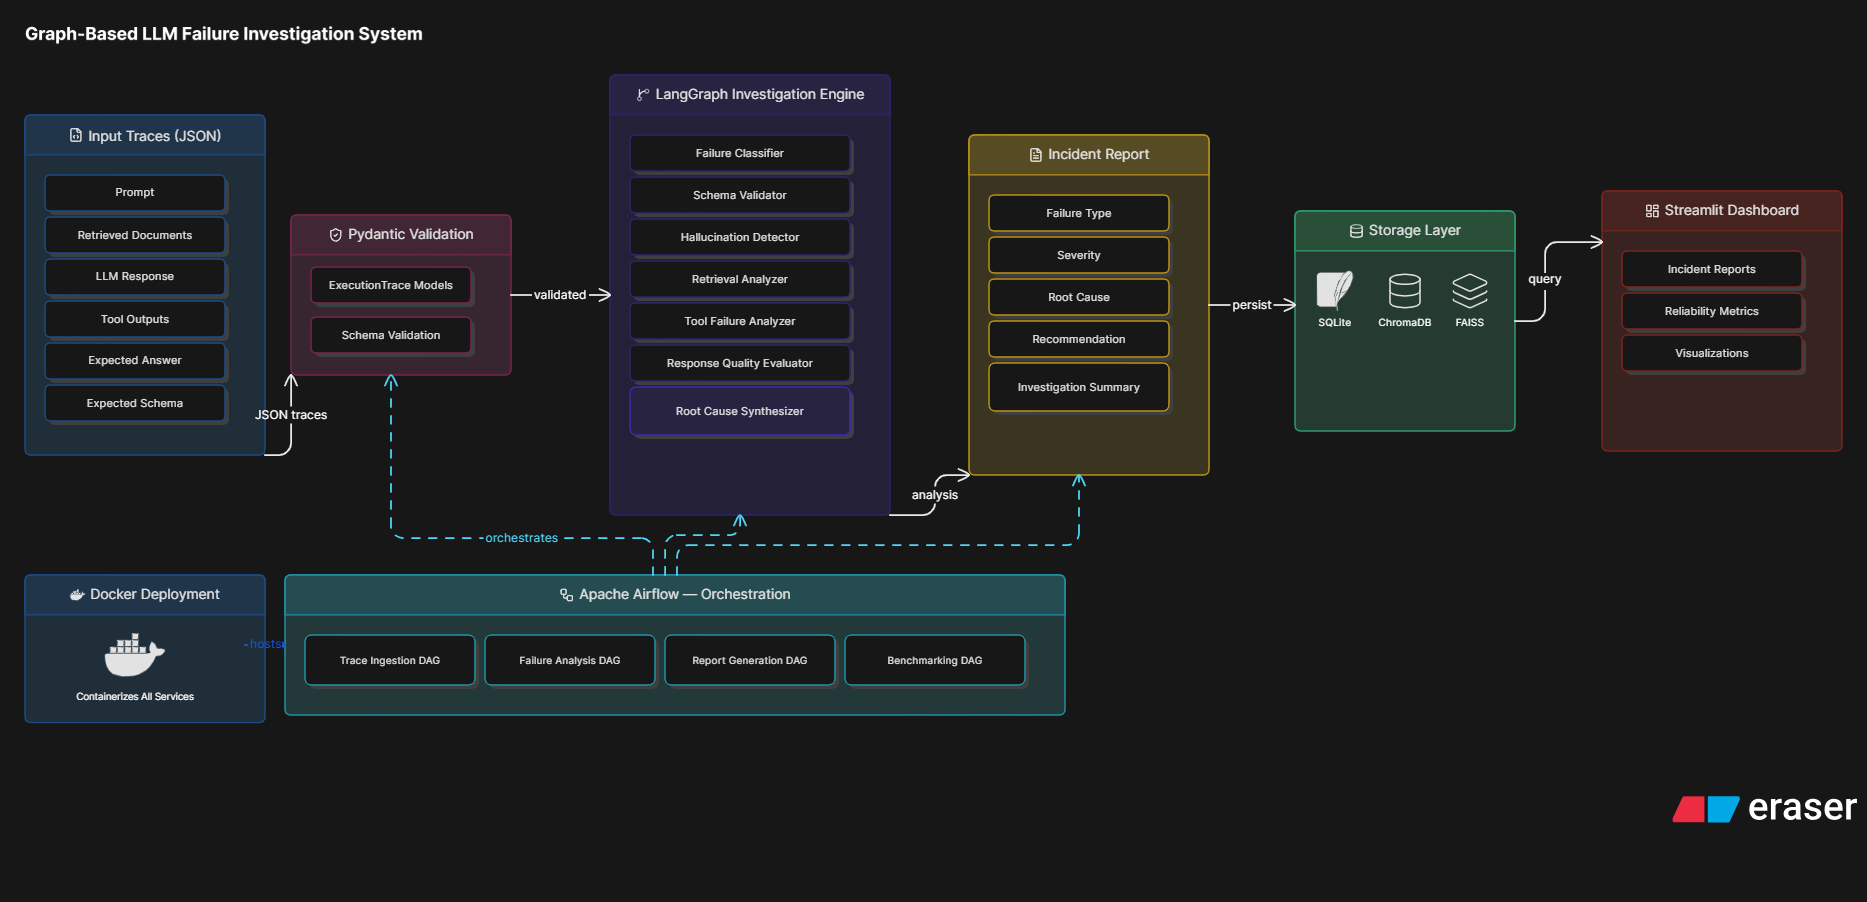
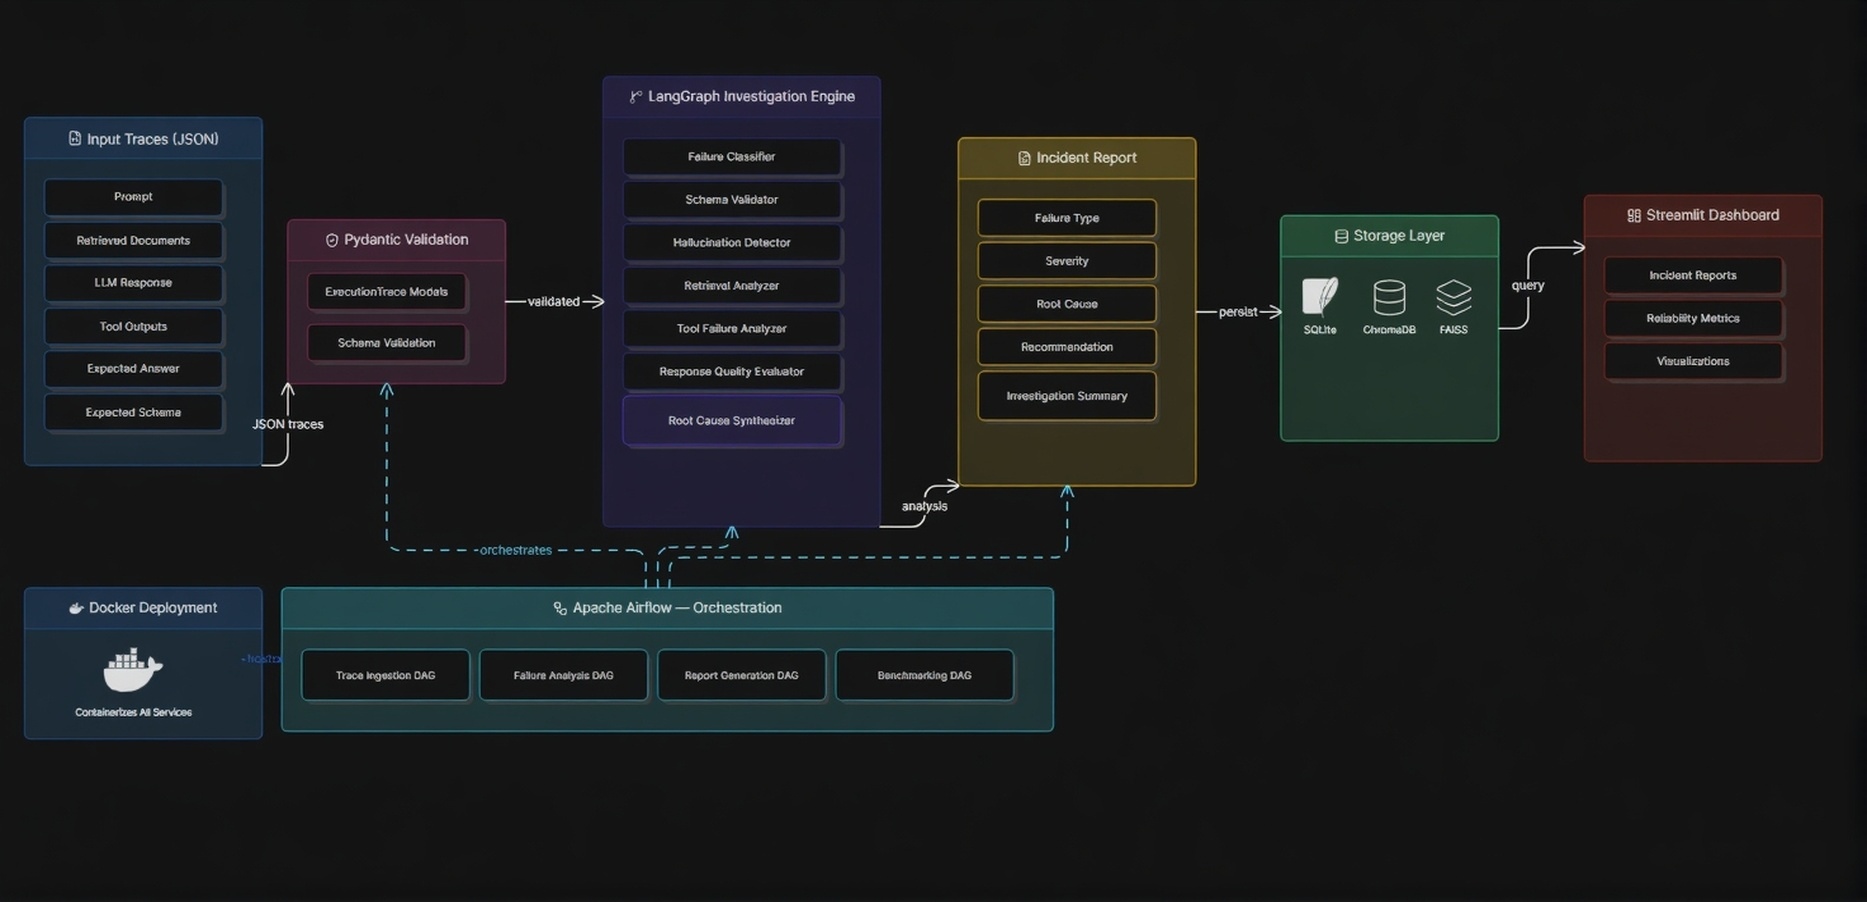
Add architecture diagram chnage to README

Changed region(s): [[0.0, 0.0931, 0.9941, 0.8381], [0.0, 0.031, 0.2175, 0.0621], [0.9009, 0.8692, 0.9941, 0.9313]]

diff --git a/README.md b/README.md
@@ -8,7 +8,7 @@ LLM applications fail in several ways that are hard to debug from a single log l
 
 ## Architecture
 
-![Architecture Diagram](logoremover_1779284942198.jpeg)
+![Architecture Diagram](architecture.png)
 
 The MVP uses deterministic rule-based analysis. LangGraph, ChromaDB, FAISS, and sentence-transformers are supported, but the code includes graceful fallbacks so the core investigation path remains simple to run.
 
